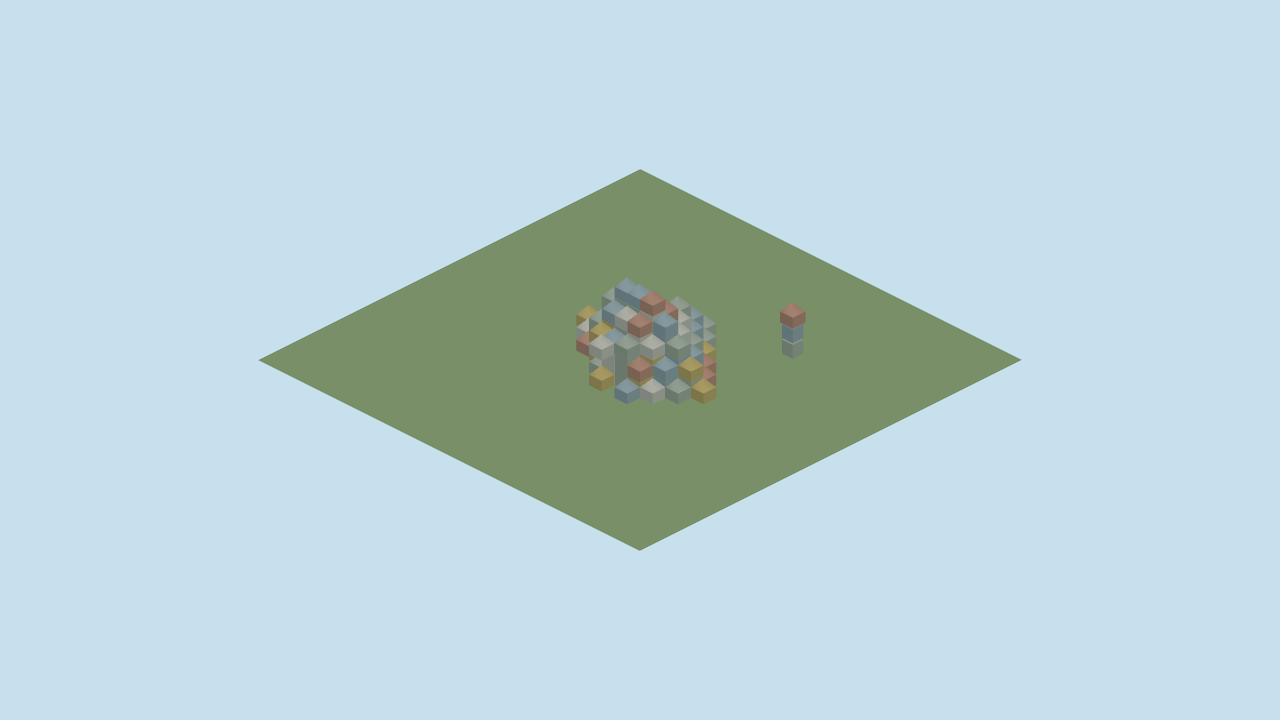
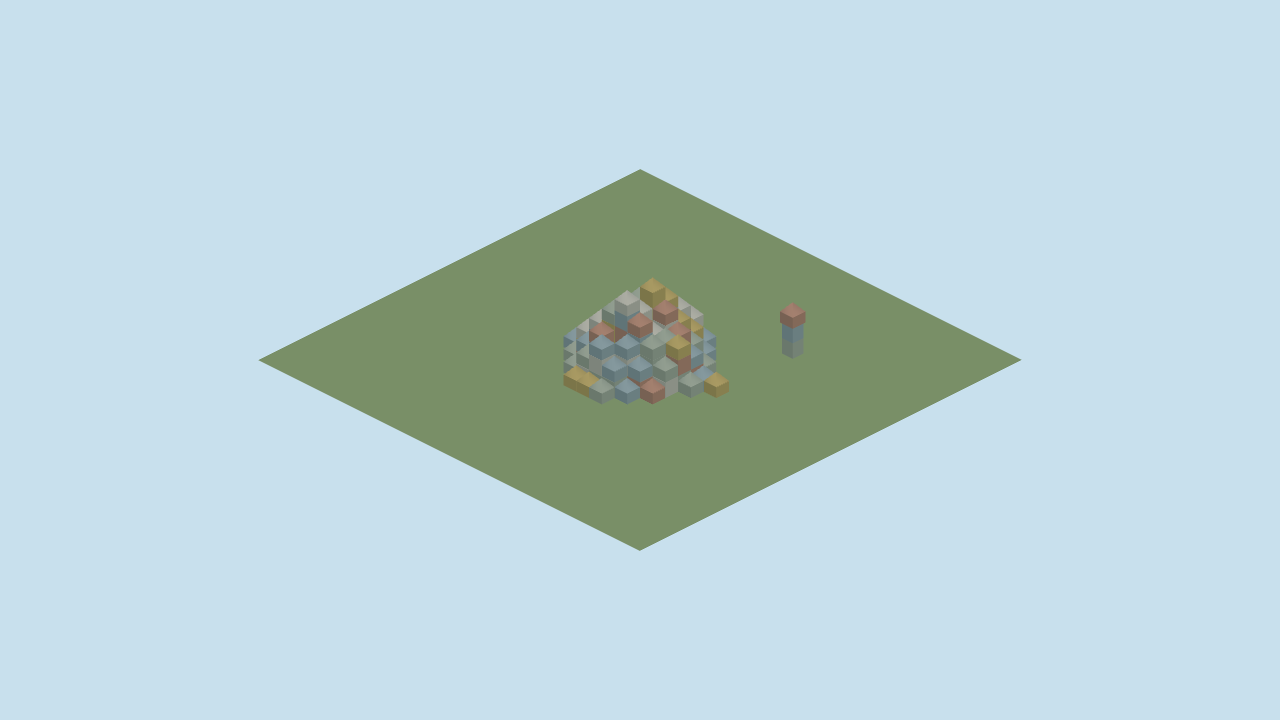
[fix] Remove vertical gaps between stacked non-roof cells (#11)
User spotted a visual bug: stacking two freestanding (or corner)
cells left a 0.1-unit horizontal strip showing grass between
floors. Cause: T-008 chose non-1.0 heights (0.9 for freestanding,
1.1 for corner) to generate silhouette variation.

Fix: revert height to 1.0 for freestanding and corner. Keep the
XZ inset (0.85 and 0.95 respectively) for visual differentiation —
silhouette delta is still 30% (wall 1.0 vs roof 1.3), same as
before, satisfying the ≥15% DoD.

Corner can't be taller than 1.0 regardless because by rule
corner implies hasAbove=true — protruding would clip into the
cell above.

Added regression E2E: boundingBox check asserts minY=-0.5 and
maxY≥+0.5 for all non-roof geometries, so any future attempt
to shrink height fails the test immediately.

Also: close-up tower screenshot as proof.

Total: 107 unit + 41 E2E.

Changed region(s): [[0.4375, 0.3667, 0.5625, 0.5806]]

diff --git a/tests/e2e/T-008-tile-geometries.spec.js b/tests/e2e/T-008-tile-geometries.spec.js
@@ -107,6 +107,59 @@ test.describe('T-008: 4 distinct tile geometries', () => {
     await page.screenshot({ path: 'docs/screenshots/T-008-geometries.png' });
   });
 
+  test('visual snapshot: close-up tower proves no vertical gaps', async ({ page }) => {
+    mkdirSync('docs/screenshots', { recursive: true });
+    await page.goto('/');
+    await page.waitForSelector('canvas#canvas');
+    await page.waitForTimeout(200);
+
+    await page.evaluate(() => {
+      const s = window.__game__.state;
+      s.setCell(15, 0, 15, { colorId: 2 });
+      s.setCell(15, 1, 15, { colorId: 2 });
+      s.setCell(15, 2, 15, { colorId: 2 });
+    });
+
+    // Zoom in for close-up
+    await page.mouse.move(600, 400);
+    for (let i = 0; i < 8; i++) {
+      await page.mouse.wheel(0, -100);
+      await page.waitForTimeout(30);
+    }
+    await page.waitForTimeout(400);
+    await page.mouse.move(5, 5); // away from canvas → hide hover
+    await page.waitForTimeout(200);
+    await page.screenshot({ path: 'docs/screenshots/T-008-tower-closeup.png' });
+  });
+
+  test('stacked non-roof cells have NO vertical gap (regression for fix/tile-vertical-gaps)', async ({ page }) => {
+    await page.goto('/');
+    await page.waitForSelector('canvas#canvas');
+    await page.waitForTimeout(200);
+
+    // Any non-roof geometry (wall, freestanding, corner) must reach full
+    // cell height on Y — otherwise stacked cells show a gap to ground.
+    const heights = await page.evaluate(() => {
+      const r = window.__game__.renderer;
+      const out = {};
+      for (const [tileType, pool] of Object.entries(r.pools)) {
+        pool.mesh.geometry.computeBoundingBox();
+        const bb = pool.mesh.geometry.boundingBox;
+        out[tileType] = { minY: bb.min.y, maxY: bb.max.y, height: bb.max.y - bb.min.y };
+      }
+      return out;
+    });
+
+    for (const tileType of ['wall', 'freestanding', 'corner']) {
+      // Geometry is centered on origin → must span exactly [-0.5, +0.5] on Y
+      expect(heights[tileType].minY).toBeCloseTo(-0.5, 5);
+      expect(heights[tileType].maxY).toBeGreaterThanOrEqual(0.5 - 0.001);
+    }
+    // Roof allowed to protrude up (apex above cell top) — cell above is empty by invariant.
+    expect(heights.roof.minY).toBeCloseTo(-0.5, 5);
+    expect(heights.roof.maxY).toBeGreaterThan(0.5); // protrudes above
+  });
+
   test('placement still works with tall roof geometry (regression)', async ({ page }) => {
     await page.goto('/');
     await page.waitForSelector('canvas#canvas');

diff --git a/src/renderer.js b/src/renderer.js
@@ -33,19 +33,17 @@ function makeWallGeometry() {
 }
 
 function makeFreestandingGeometry() {
-  // Narrow inset pillar — 0.85×0.9×0.85. Looks different from wall
-  // because horizontal faces recede, suggesting a tower interior.
-  const g = new THREE.BoxGeometry(0.85, 0.9, 0.85);
-  g.translate(0, -0.05, 0); // bottom flush with cell bottom
-  return g;
+  // Narrow inset pillar (0.85×1.0×0.85). Height MUST be 1.0 — otherwise
+  // stacked cells leave a horizontal gap showing the ground between
+  // floors. Differentiation from 'wall' is via XZ-inset only.
+  return new THREE.BoxGeometry(0.85, 1.0, 0.85);
 }
 
 function makeCornerGeometry() {
-  // Slightly taller (1.1) + slightly inset (0.95) — suggests a turn
-  // in the building line.
-  const g = new THREE.BoxGeometry(0.95, 1.1, 0.95);
-  g.translate(0, 0.05, 0);
-  return g;
+  // Slightly inset (0.95×1.0×0.95), full height. Can't be taller than
+  // 1.0 because 'corner' requires hasAbove=true — a taller geometry
+  // would clip into the cell above.
+  return new THREE.BoxGeometry(0.95, 1.0, 0.95);
 }
 
 function makeRoofGeometry() {
